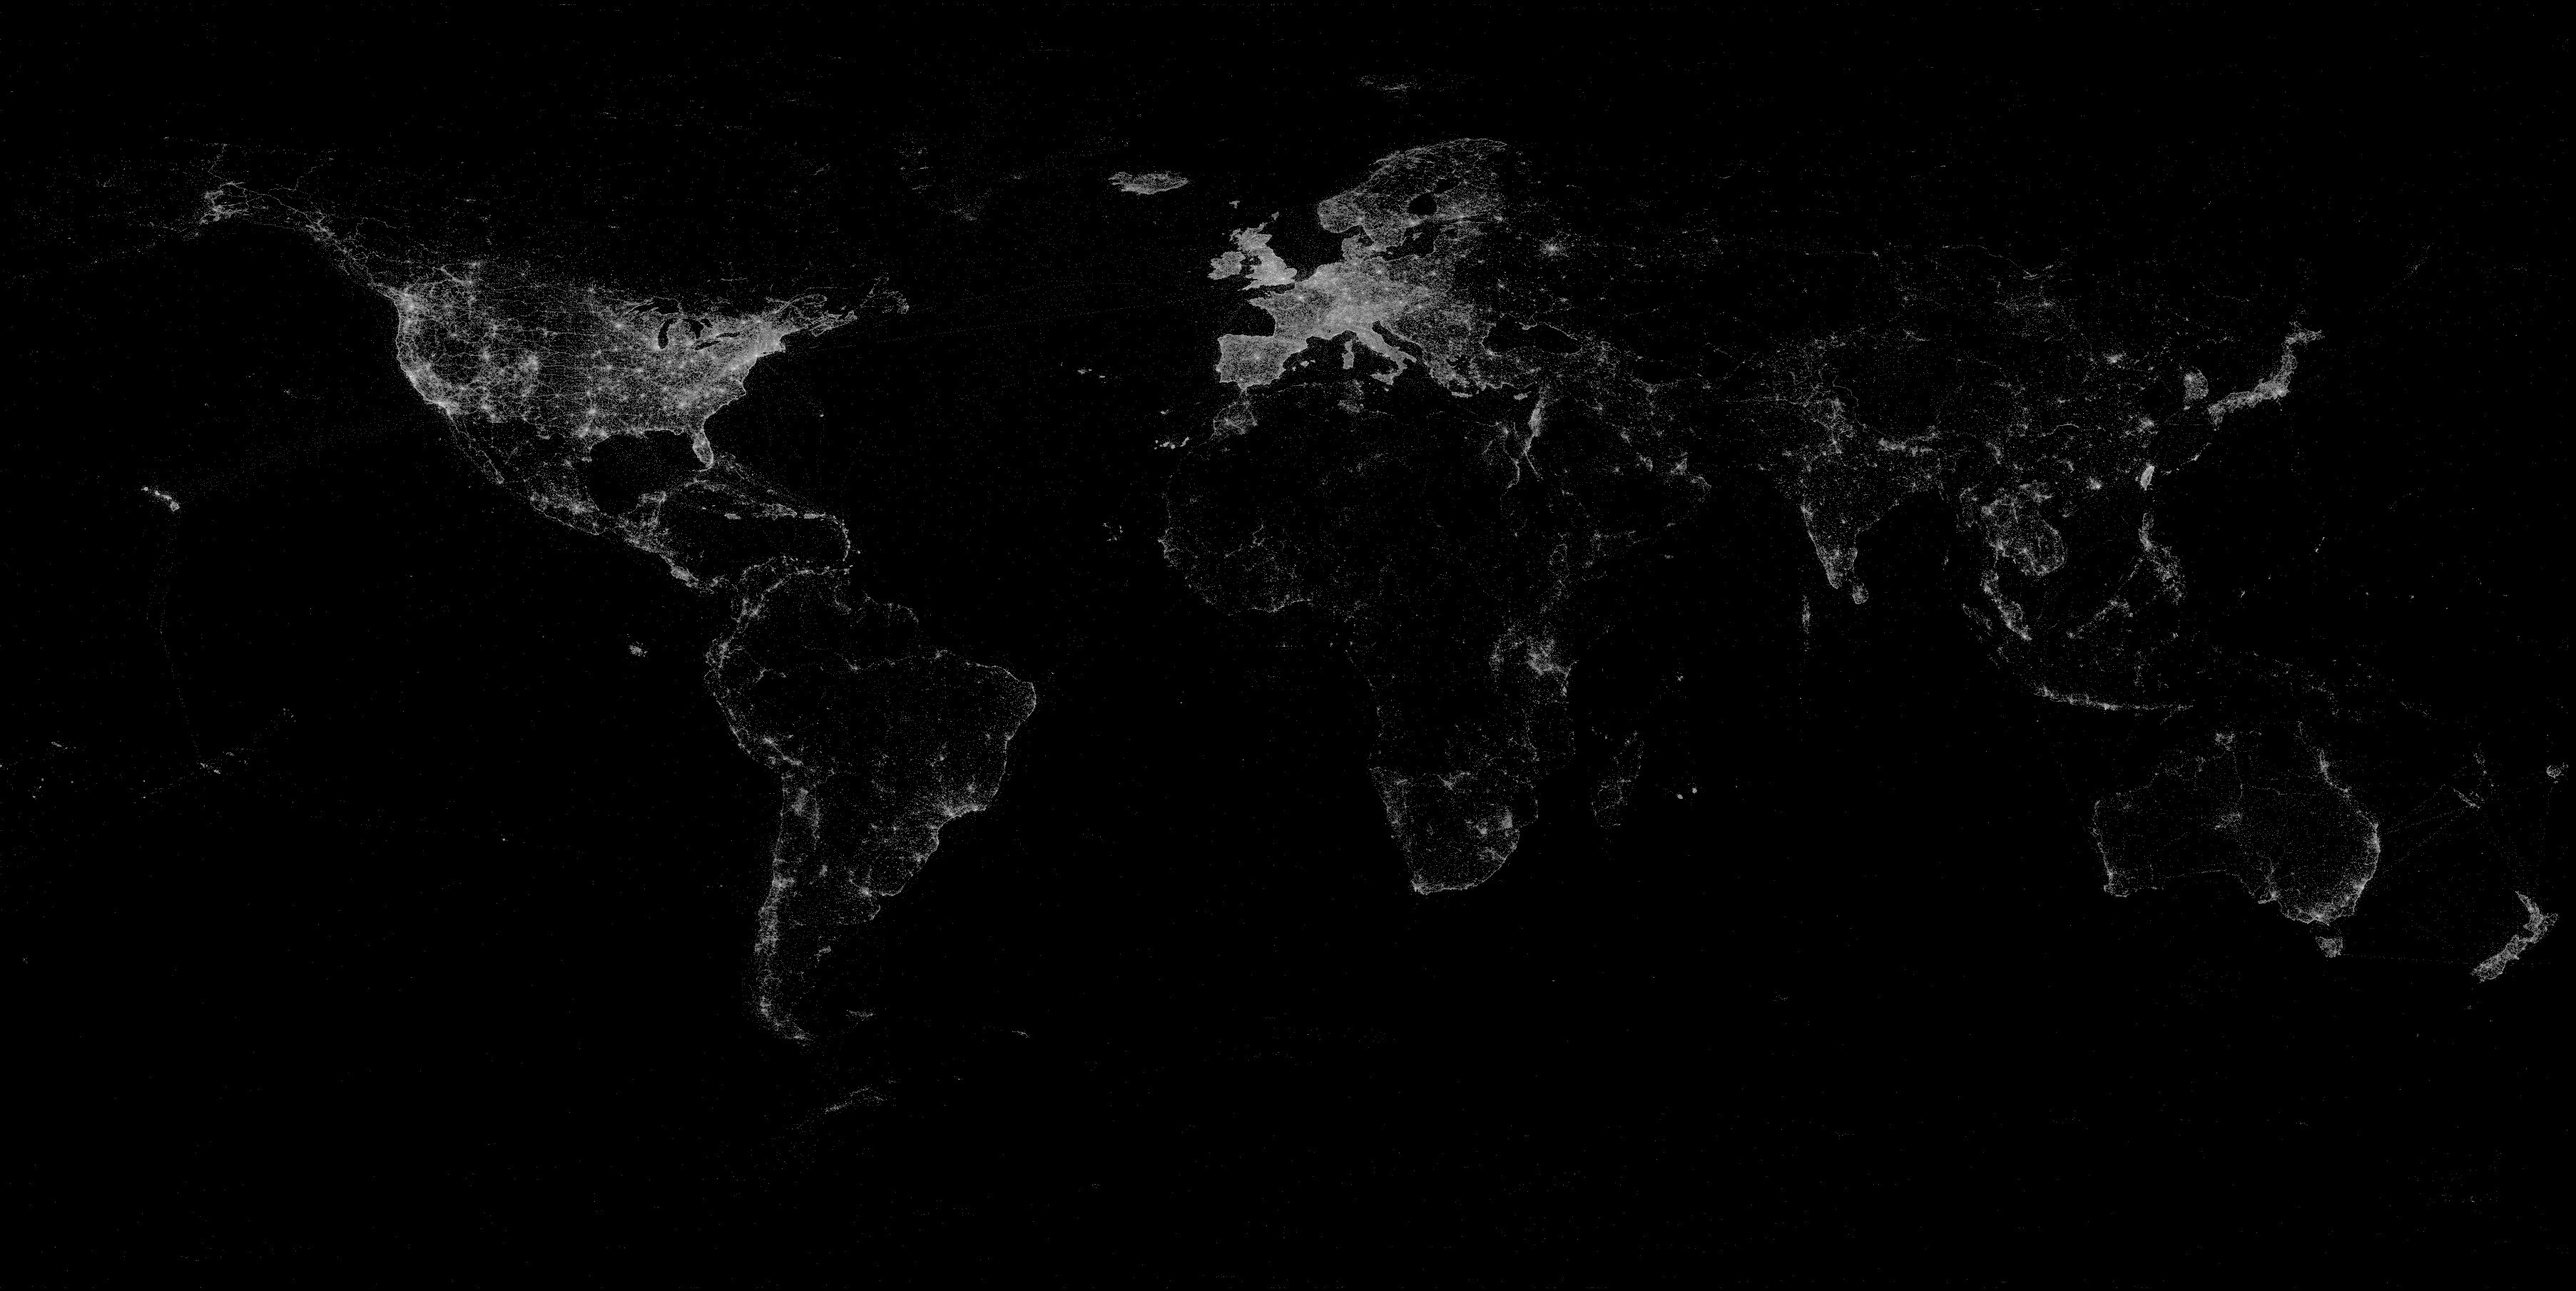
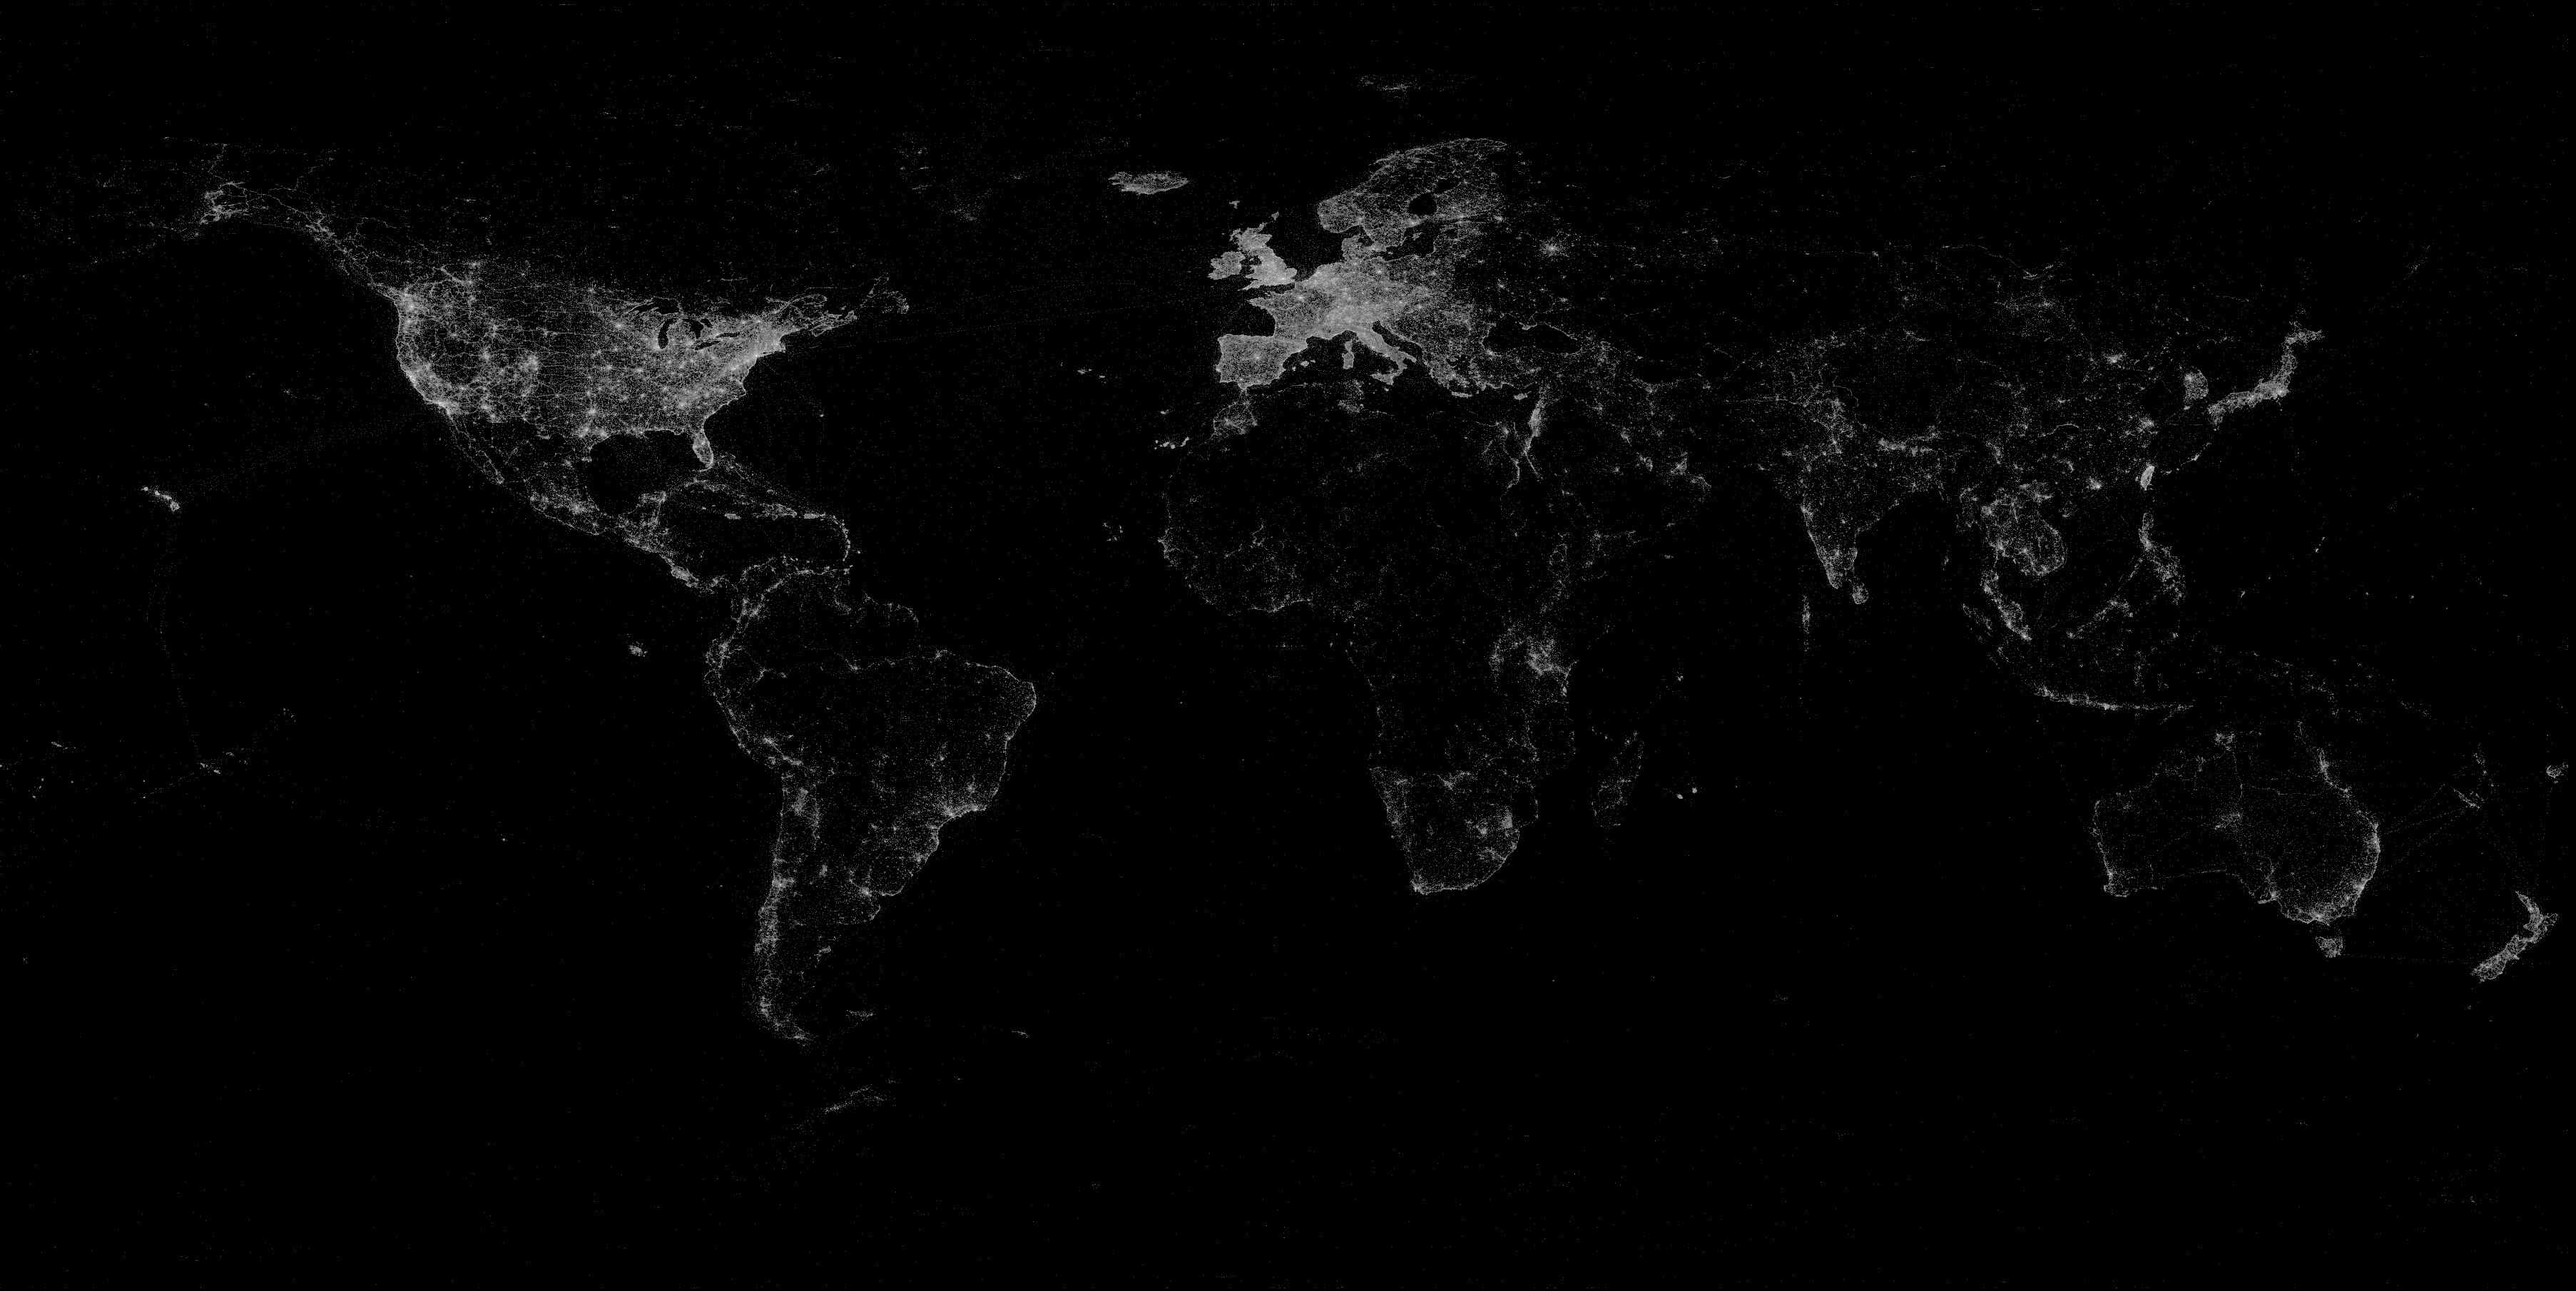
Updated contact section. Compressed contact image

diff --git a/index.html b/index.html
@@ -6,7 +6,7 @@
   <meta charset="utf-8" />
   <meta name="viewport" content="width=device-width, initial-scale=1" />
   <meta http-equiv="X-UA-Compatible" content="IE=edge" />
-  <meta name="description" content="HTML5 website template" />
+  <meta name="description" content="Personal portfolio for Manuel Menendez" />
   <meta name="author" content="Manuel Menendez" />
   <link rel="stylesheet" href="assets/css/main.css" />
 </head>
@@ -155,13 +155,12 @@
                 <div class="contact--lockup">
                   <div class="modal">
                     <div class="modal--information">
-                      <p>425 Goicuria, Havana, Cuba</p>
                       <a href="mailto:ouremail@gmail.com">manuelmenendezalfonso@gmail.com</a>
                       <a href="tel:+53 53878465">+53 53878465</a>
                     </div>
                     <ul class="modal--options">
-                      <li><a href="#0">Twitter</a></li>
-                      <li><a href="#0">Github</a></li>
+                      <li><a href="https://twitter.com/manuelm662">Twitter</a></li>
+                      <li><a href="https://github.com/hudsonbay">Github</a></li>
                       <li><a href="#0">Download CV</a></li>
                       <li>
                         <a href="mailto:manuelmenendezalfonso@gmail.com">Email me</a>
@@ -173,7 +172,7 @@
             </li>
             <li class="l-section section">
               <div class="hire">
-                <h2>You want me to do</h2>
+                <h2>Choose what you want me to do</h2>
                 <!-- checkout formspree.io for easy form setup -->
                 <form class="work-request">
                   <div class="work-request--options">
